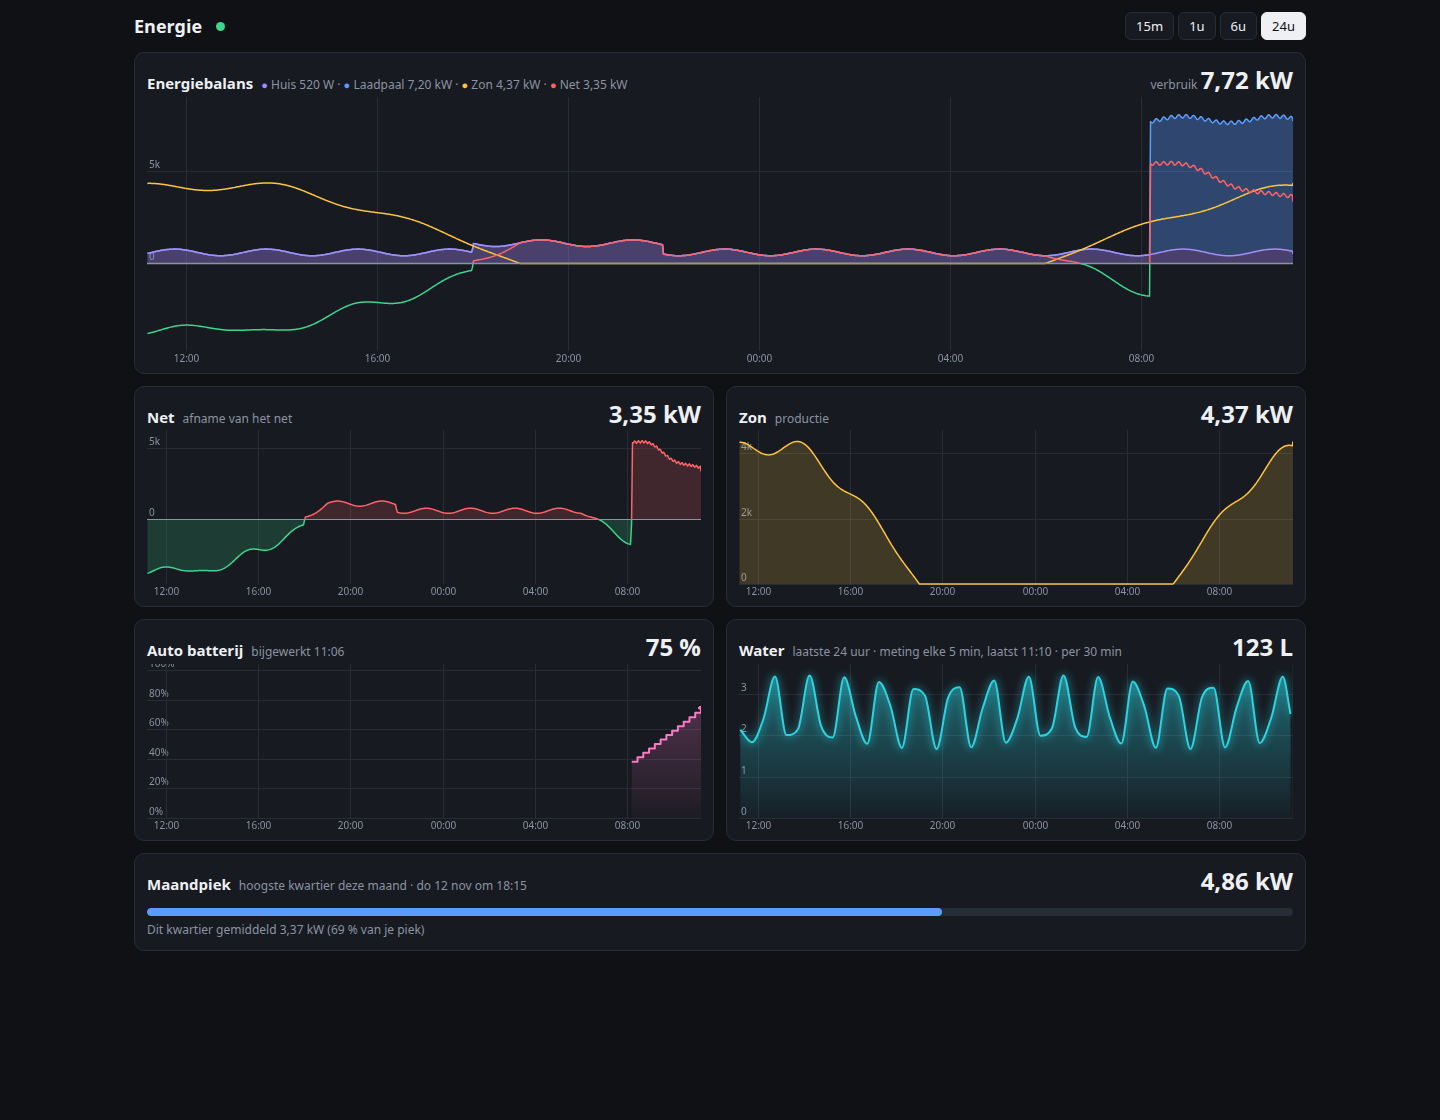
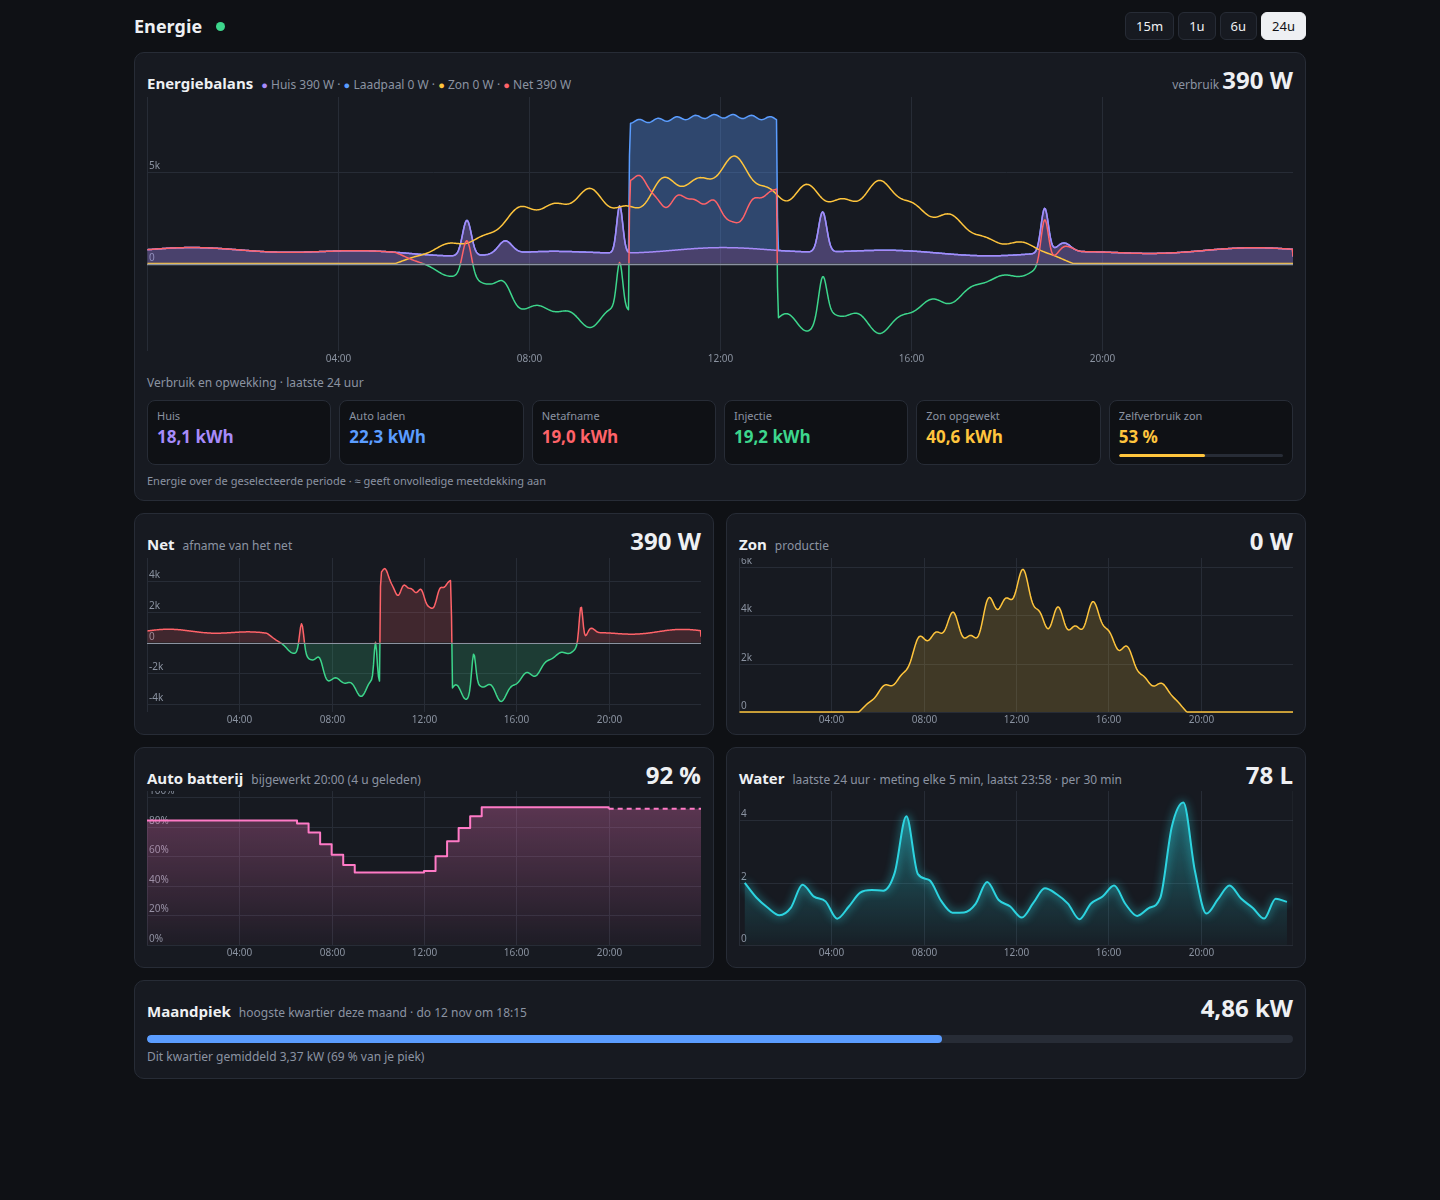
Init

diff --git a/index.html b/index.html
@@ -39,6 +39,20 @@ section.wide{grid-column:1/-1}
 #peak .bar i.hot{background:var(--solar)}#peak .bar i.over{background:var(--grid-in)}
 #peak .note{color:var(--mute);font-size:12px;padding-bottom:6px}
 canvas{display:block;width:100%;height:170px;touch-action:pan-y}
+.summary{display:grid;grid-template-columns:repeat(6,minmax(0,1fr));gap:8px;padding:8px 0 6px}
+.summary-title{grid-column:1/-1;color:var(--mute);font-size:12px}
+.summary-item{min-width:0;padding:7px 9px;background:var(--bg);border:1px solid var(--line);border-radius:8px}
+.summary-label{display:block;overflow:hidden;color:var(--mute);font-size:11px;text-overflow:ellipsis;white-space:nowrap}
+.summary-value{display:block;margin-top:2px;font-size:17px;font-weight:650;font-variant-numeric:tabular-nums;white-space:nowrap}
+.summary-item.home .summary-value{color:var(--home)}
+.summary-item.charger .summary-value{color:var(--charger)}
+.summary-item.import .summary-value{color:var(--grid-in)}
+.summary-item.export .summary-value{color:var(--grid-out)}
+.summary-item.solar .summary-value,.summary-item.self .summary-value{color:var(--solar)}
+.summary-bar{height:3px;margin-top:5px;overflow:hidden;border-radius:2px;background:var(--line)}
+.summary-bar i{display:block;width:0;height:100%;border-radius:2px;background:var(--solar)}
+.summary-note{grid-column:1/-1;color:var(--mute);font-size:11px}
+@media(max-width:700px){.summary{grid-template-columns:repeat(3,minmax(0,1fr));gap:6px}.summary-item{padding:6px 7px}.summary-value{font-size:15px}}
 </style>
 </head>
 <body>
@@ -73,6 +87,20 @@ for (const m of M) {
   m.cv = s.querySelector('canvas'); m.ctx = m.cv.getContext('2d');
   if (m.h) m.cv.style.height = m.h + 'px';
   m.val = s.querySelector('.val'); m.sub = s.querySelector('.sub');
+  if (m.balance) {
+    const summary = document.createElement('div');
+    summary.className = 'summary';
+    summary.innerHTML = `<span class="summary-title"></span>
+      <div class="summary-item home"><span class="summary-label">Huis</span><span class="summary-value">–</span></div>
+      <div class="summary-item charger"><span class="summary-label">Auto laden</span><span class="summary-value">–</span></div>
+      <div class="summary-item import"><span class="summary-label">Netafname</span><span class="summary-value">–</span></div>
+      <div class="summary-item export"><span class="summary-label">Injectie</span><span class="summary-value">–</span></div>
+      <div class="summary-item solar"><span class="summary-label">Zon opgewekt</span><span class="summary-value">–</span></div>
+      <div class="summary-item self"><span class="summary-label">Zelfverbruik zon</span><span class="summary-value">–</span><div class="summary-bar"><i></i></div></div>
+      <span class="summary-note">Energie over de geselecteerde periode · ≈ geeft onvolledige meetdekking aan</span>`;
+    s.appendChild(summary);
+    m.summary = summary;
+  }
   const move = e => { const r = m.cv.getBoundingClientRect(); cursor = Math.min(1, Math.max(0, (e.clientX - r.left) / r.width)); render(); };
   const leave = () => { cursor = null; render(); };
   m.cv.addEventListener('pointermove', move);
@@ -149,6 +177,49 @@ const fmtL = l => l == null ? '–' : l >= 1000 ? nl(l / 1000, 2) + ' m³' : (l 
 const RANGE_NL = {900:'15 min', 3600:'1 uur', 21600:'6 uur', 86400:'24 uur'};
 const BUCKET = {900:60, 3600:120, 21600:600, 86400:1800};         // seconden per punt van de golf
 const BUCKET_NL = {900:'1 min', 3600:'2 min', 21600:'10 min', 86400:'30 min'};
+const RANGE_SHORT_NL = {900:'15 min', 3600:'1 uur', 21600:'6 uur', 86400:'24 uur'};
+function integrate(indexes, start, end, transform = x => x) {
+  const energy = indexes.map(() => 0);
+  let seconds = 0;
+  for (let i = Math.max(0, lb(T, start) - 1); i < T.length && T[i] < end; i++) {
+    const t = T[i], next = i + 1 < T.length ? T[i + 1] : end;
+    const a = Math.max(start, t), b = Math.min(end, t + Math.min(next - t, GAP));
+    if (b <= a || indexes.some(j => V[j][i] == null)) continue;
+    const duration = b - a;
+    for (let j = 0; j < indexes.length; j++) energy[j] += transform(V[indexes[j]][i], j) * duration / 3600000;
+    seconds += duration;
+  }
+  return {energy, seconds};
+}
+function renderSummary() {
+  const m = M.find(x => x.balance), el = m.summary, start = now - span;
+  el.querySelector('.summary-title').textContent = 'Verbruik en opwekking · laatste ' + RANGE_SHORT_NL[span];
+  const house = hasCharger ? integrate([3, 2], start, now) : integrate([3], start, now);
+  const charger = hasCharger ? house.energy[1] : 0;
+  const houseEnergy = house.energy[0];
+  const houseCoverage = house.seconds;
+  const grid = integrate([0], start, now, (v, i) => Math.max(0, v));
+  const exported = integrate([0], start, now, (v, i) => Math.max(0, -v));
+  const solar = integrate([1], start, now);
+  const paired = integrate([0, 1], start, now, (v, i) => i === 0 ? Math.max(0, -v) : v);
+  const generated = paired.energy[1], injected = paired.energy[0];
+  const selfUse = generated > 0
+    ? Math.max(0, Math.min(100, (generated - injected) / generated * 100))
+    : null;
+  const energyText = (kWh, covered) => {
+    if (covered <= 0) return '–';
+    const value = kWh;
+    return (covered < span * .99 ? '≈' : '') + (value < 10 ? nl(value, 2) : nl(value, 1)) + ' kWh';
+  };
+  const values = el.querySelectorAll('.summary-value');
+  values[0].textContent = energyText(houseEnergy, houseCoverage);
+  values[1].textContent = hasCharger ? energyText(charger, houseCoverage) : '0,00 kWh';
+  values[2].textContent = energyText(grid.energy[0], grid.seconds);
+  values[3].textContent = energyText(exported.energy[0], exported.seconds);
+  values[4].textContent = energyText(solar.energy[0], solar.seconds);
+  values[5].textContent = selfUse == null ? '–' : (paired.seconds < span * .99 ? '≈' : '') + Math.round(selfUse) + ' %';
+  el.querySelector('.summary-bar i').style.width = (selfUse == null ? 0 : selfUse) + '%';
+}
 // De watermeter meldt zich maar om de wInt seconden. Het verbruik van zo'n melding is
 // verdeeld over het interval ervoor; na de laatste melding is het verbruik nog onbekend.
 function waterBuckets() {
@@ -223,6 +294,7 @@ function renderPeak() {
 }
 function render() {
   renderPeak();
+  renderSummary();
   const css = getComputedStyle(document.documentElement);
   const col = n => css.getPropertyValue(n).trim();
   const ct = cursor == null ? null : now - span + cursor * span;

diff --git a/bmw.py b/bmw.py
@@ -315,7 +315,12 @@ class Stream:
         if new:
             self.seen.update(new)
             hint = sorted(k for k in new if re.search(r"soc|batter|charg", k, re.I))
-            self.log(f"bmw: {len(new)} new data point(s) in the stream" + (": " + ", ".join(hint) if hint else ""))
+            keys = hint or sorted(new)
+            shown = ", ".join(keys[:8])
+            if len(keys) > 8:
+                shown += f", ... (+{len(keys) - 8})"
+            detail = f"battery-related keys: {shown}" if hint else f"sample keys (none look battery-related): {shown}"
+            self.log(f"bmw: {len(new)} new data point(s) in the stream; {detail}")
         for rank, key in enumerate(self.keys):
             if key not in data or rank > self.rank:
                 continue
@@ -337,6 +342,6 @@ class Stream:
                 self.session(self.tokens.ensure())
                 backoff = 20
             except Exception as e:  # noqa: BLE001 - keep trying whatever happens
-                self.note(f"{e}")
+                self.note(f"ERROR {type(e).__name__}: {e}; retrying in {backoff}s")
                 time.sleep(backoff)
                 backoff = min(300, backoff * 2)

diff --git a/energy.py b/energy.py
@@ -290,7 +290,7 @@ def poller(name: str, read) -> None:
                     ok = True
         except Exception as e:  # noqa: BLE001 - keep polling whatever happens
             if ok is not False:
-                log(f"{name}: ERROR {e}")
+                log(f"{name}: ERROR {type(e).__name__}: {e}")
                 ok = False
         time.sleep(max(0.05, intervals.get(name, 1.0) - (time.monotonic() - t0)))
 

diff --git a/README.md b/README.md
@@ -6,7 +6,7 @@ Plain Python (standard library only) that polls your devices every second and se
 
 *Dashboard met realistische voorbeelddata; waarden zijn niet live.*
 
-The page (in Dutch) shows these graphs and cards (the time range buttons are 15m, 1u, 6u and 24u):
+The page (in Dutch) shows these graphs and cards (the time range buttons are 15m, 1u, 6u and 24u). The energy-balance card also totals house use, car charging, grid import, grid export and solar generation for the selected period, plus the share of solar power used directly in the home. A `≈` marks totals with gaps in the available measurements.
 
 | Graph | Source | Sign |
 |---|---|---|
@@ -44,7 +44,7 @@ Edit the IPs. Leave out a section to disable that source (a missing source count
 python3 energy.py
 ```
 
-Open `http://localhost:<port>`, or from your phone `http://<laptop-ip>:<port>` (the example config uses port 80; set `"port": 8080` when trying it on a laptop, because ports below 1024 need root there). The console prints `grid: ok` / `grid: ERROR …` whenever a source changes state, which is the quickest way to debug a device.
+Open `http://localhost:<port>`, or from your phone `http://<laptop-ip>:<port>` (the example config uses port 80; set `"port": 8080` when trying it on a laptop, because ports below 1024 need root there). The console prints `grid: ok` / `grid: ERROR …` whenever a source changes state, including the exception type. BMW errors include the retry delay; new stream data logs sample keys, making it easier to find the battery field your car reports.
 
 ## 4. Install on a Raspberry Pi (or any systemd Linux)
 
